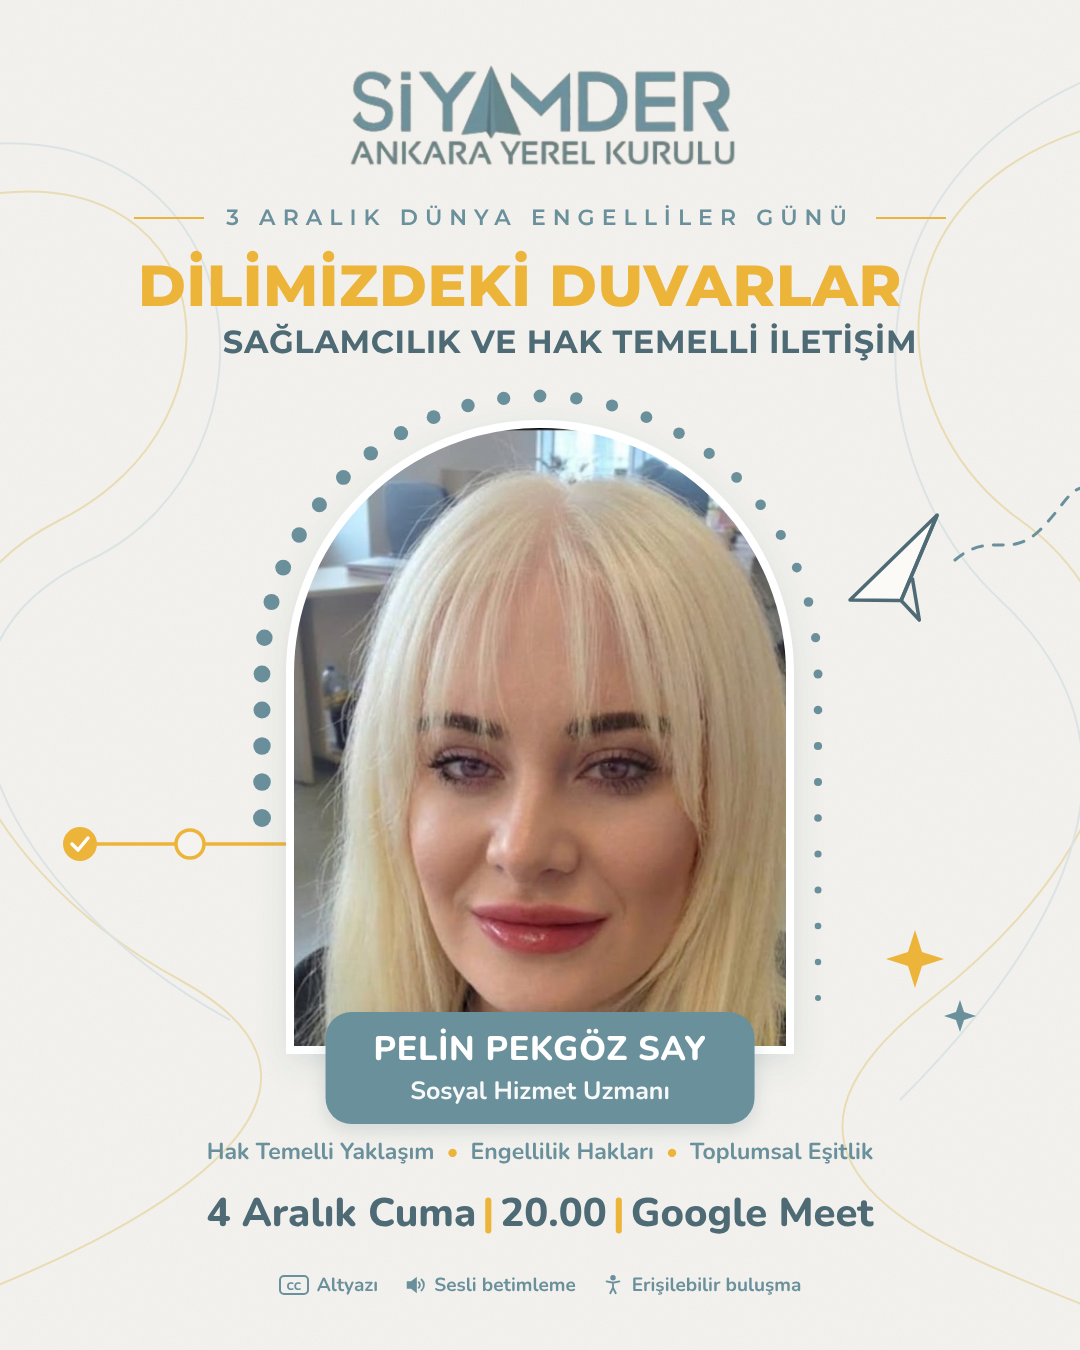
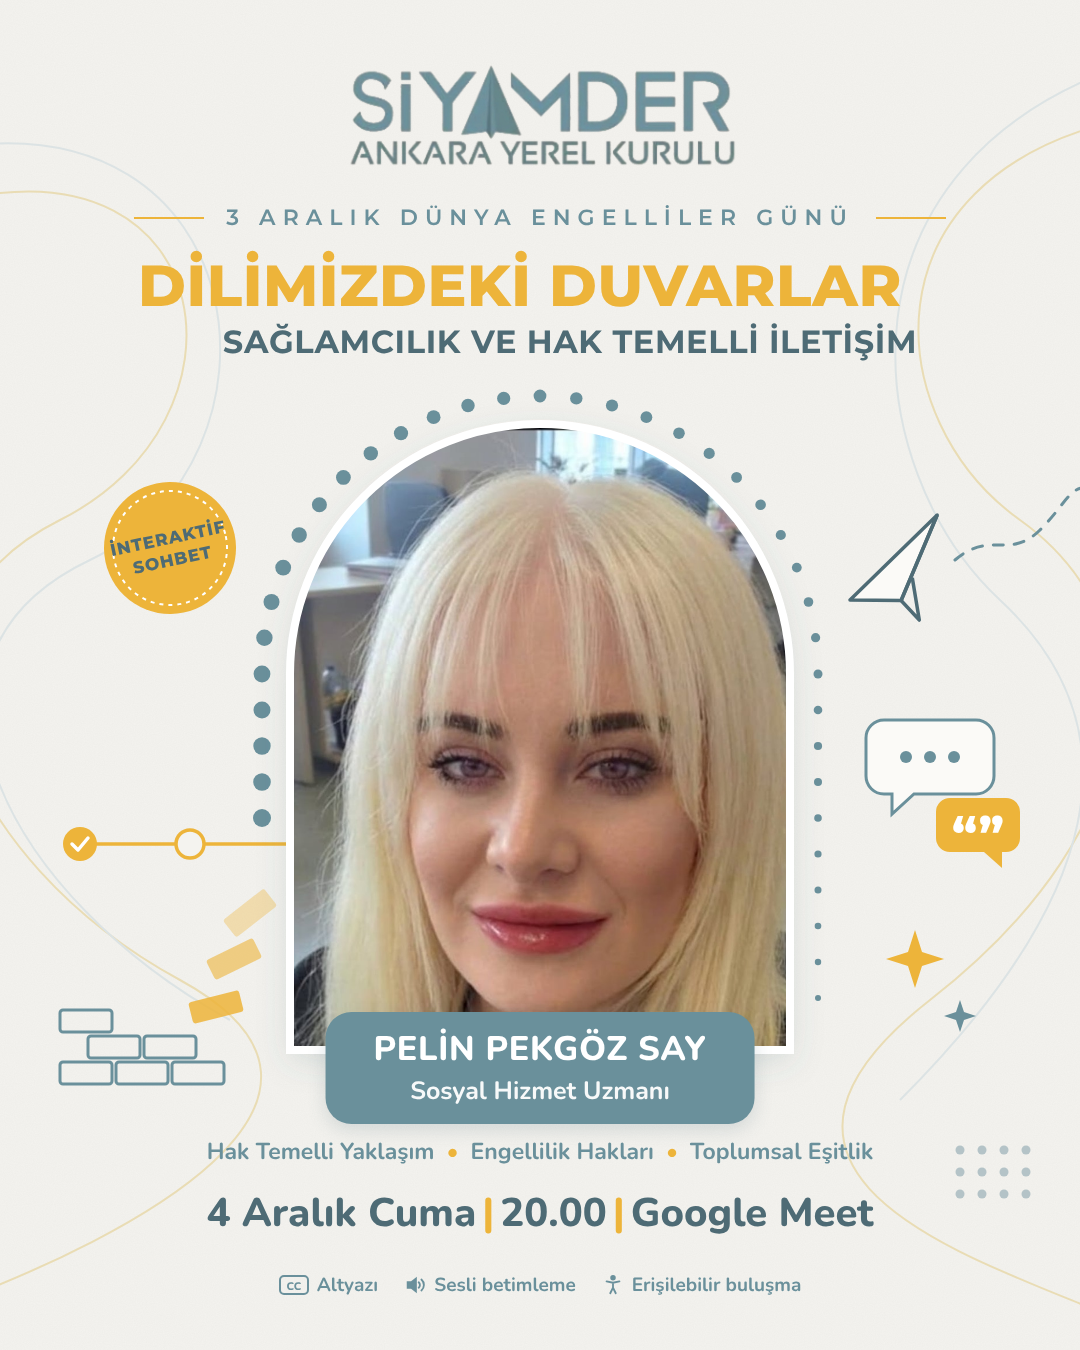
Poster: add details (bricks, speech bubbles, badge, dot grid)
Claude-Session: https://claude.ai/code/session_012xReo7SfqfS81ih4SjGsQP

diff --git a/afisler/2026-12-03-engelliler-gunu/dilimizdeki-duvarlar.html b/afisler/2026-12-03-engelliler-gunu/dilimizdeki-duvarlar.html
@@ -97,6 +97,25 @@
     <!-- pırıltılar -->
     <path d="M915 930 l7 22 22 7 -22 7 -7 22 -7 -22 -22 -7 22 -7z" fill="var(--sari)"/>
     <path d="M960 1000 l4 12 12 4 -12 4 -4 12 -4 -12 -12 -4 12 -4z" fill="var(--petrol)"/>
+    <!-- detay: duvar tuğlaları dağılıyor -->
+    <g fill="none" stroke="var(--petrol)" stroke-width="3" stroke-linejoin="round"><rect x="60" y="1062" width="52" height="22" rx="3"/><rect x="116" y="1062" width="52" height="22" rx="3"/><rect x="172" y="1062" width="52" height="22" rx="3"/><rect x="88" y="1036" width="52" height="22" rx="3"/><rect x="144" y="1036" width="52" height="22" rx="3"/><rect x="60" y="1010" width="52" height="22" rx="3"/></g>
+    <g fill="var(--sari)" stroke="none"><rect x="190" y="996" width="52" height="22" rx="3" transform="rotate(-14 216 1007)" opacity="0.85"/><rect x="208" y="948" width="52" height="22" rx="3" transform="rotate(-26 234 959)" opacity="0.6"/><rect x="224" y="902" width="52" height="22" rx="3" transform="rotate(-38 250 913)" opacity="0.35"/></g>
+    <!-- detay: konuşma balonları -->
+    <g transform="translate(866 720)">
+      <path d="M0 18 a18 18 0 0 1 18 -18 h92 a18 18 0 0 1 18 18 v38 a18 18 0 0 1 -18 18 h-62 l-22 20 v-20 h-8 a18 18 0 0 1 -18 -18 z" fill="#FBFAF7" stroke="var(--petrol)" stroke-width="3"/>
+      <circle cx="40" cy="37" r="6" fill="var(--petrol)"/><circle cx="64" cy="37" r="6" fill="var(--petrol)"/><circle cx="88" cy="37" r="6" fill="var(--petrol)"/>
+      <path d="M70 92 a14 14 0 0 1 14 -14 h56 a14 14 0 0 1 14 14 v26 a14 14 0 0 1 -14 14 h-4 v16 l-18 -16 h-34 a14 14 0 0 1 -14 -14 z" fill="var(--sari)"/>
+      <text x="112" y="130" text-anchor="middle" font-family="Montserrat" font-weight="800" font-size="46" fill="#fff">“”</text>
+    </g>
+    <!-- detay: rozet -->
+    <g transform="translate(170 548) rotate(-12)">
+      <circle r="66" fill="var(--sari)"/>
+      <circle r="57" fill="none" stroke="#fff" stroke-width="2" stroke-dasharray="4 5"/>
+      <text y="-4" text-anchor="middle" font-family="Montserrat" font-weight="800" font-size="17" fill="var(--petrol-koyu)" letter-spacing="1">İNTERAKTİF</text>
+      <text y="18" text-anchor="middle" font-family="Montserrat" font-weight="800" font-size="17" fill="var(--petrol-koyu)" letter-spacing="1">SOHBET</text>
+    </g>
+    <!-- detay: nokta matrisi -->
+    <g fill="var(--petrol-acik)"><circle cx="960" cy="1150" r="4.5"/><circle cx="960" cy="1172" r="4.5"/><circle cx="960" cy="1194" r="4.5"/><circle cx="982" cy="1150" r="4.5"/><circle cx="982" cy="1172" r="4.5"/><circle cx="982" cy="1194" r="4.5"/><circle cx="1004" cy="1150" r="4.5"/><circle cx="1004" cy="1172" r="4.5"/><circle cx="1004" cy="1194" r="4.5"/><circle cx="1026" cy="1150" r="4.5"/><circle cx="1026" cy="1172" r="4.5"/><circle cx="1026" cy="1194" r="4.5"/></g>
   </svg>
 
   <img class="logo" src="siyamder-ankara-logo.png" alt="SİYAMDER Ankara Yerel Kurulu">
